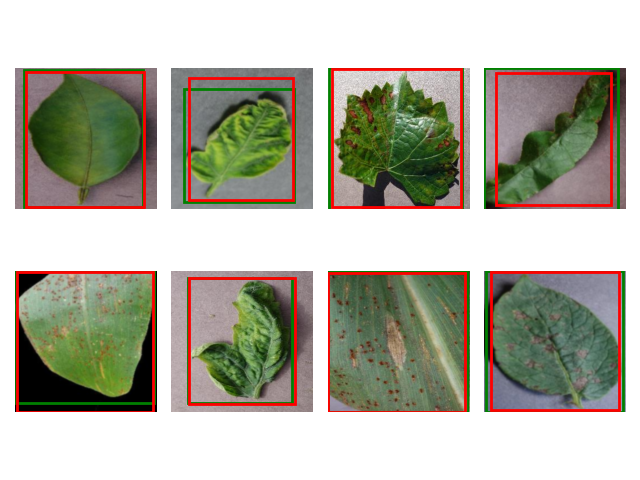
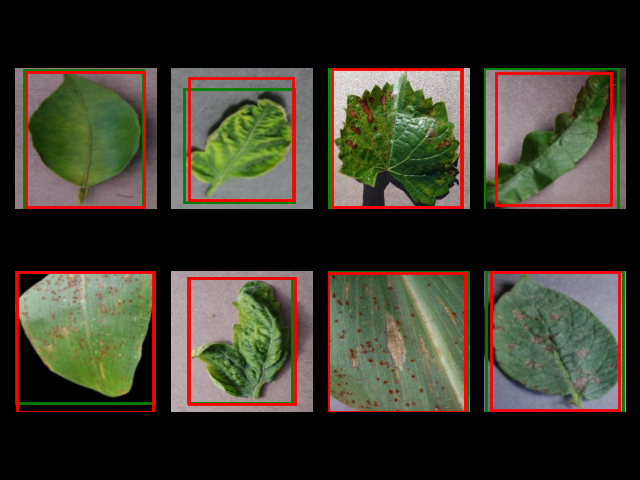
final update

diff --git a/src/train_pipeline.py b/src/train_pipeline.py
@@ -14,6 +14,7 @@ from torch.utils.data import DataLoader
 from src import model
 from src.model import SimpleDetector
 from src.detection_dataset import DetectionDataset
+plt.style.use("dark_background")
 
 def split_dataset(json_file, test_size=0.33, random_state=42):
     with open(json_file, "r") as f:

diff --git a/readme.md b/readme.md
@@ -36,4 +36,4 @@ different species of plants.
 
 The following set of images shows the ground truth label (green) and the model prediction (red) of one batch size. As seen here, the batch size was 8, where 500 images were used for training and the test set. 
 
-![resultsimage](detection_image.png)fix
+![resultsimage](detection_image.png)
